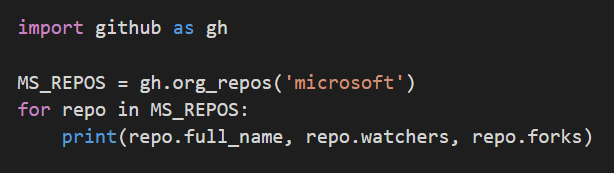
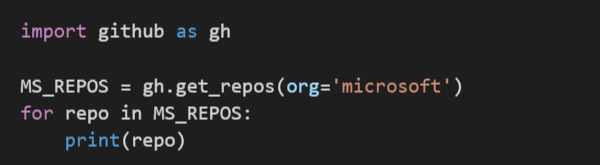
refactor get_repos()

Changed region(s): [[0.03, 0.4242, 0.99, 0.9091], [0.03, 0.0909, 0.39, 0.2727]]

diff --git a/github.py b/github.py
@@ -1,8 +1,8 @@
 """GitHub helper functions.
 
 basic_auth() -> Credentials for basic authentication.
+get_repos() --> Get all public repos for an organization or user.
 link_url() ---> Extract link URL from HTTP header returned by GitHub API.
-org_repos() --> Get all repos for an organization.
 """
 import collections
 import json
@@ -17,6 +17,34 @@ def basic_auth():
     in environment variables GitHubUser and GitHubPAT.
     """
     return (os.getenv('GitHubUser'), os.getenv('GitHubPAT'))
+
+#-------------------------------------------------------------------------------
+def get_repos(org=None, user=None):
+    """Get all public repos for an organization or user.
+
+    org = organization
+    user = username (ignored if an organization is provided)
+
+    Returns a list of namedtuple objects, one per repo.
+    """
+    FIELDS = ['full_name', 'watchers', 'forks', 'open_issues', 'default_branch']
+    if org:
+        URL = 'https://api.github.com/orgs/' + org + '/repos'
+    else:
+        URL = 'https://api.github.com/users/' + user + '/repos'
+
+    repolist = [] # the list that will be returned
+    Repo = collections.namedtuple('Repo', ' '.join(FIELDS)) # namedtuple factory
+
+    response = requests.get(URL, auth=basic_auth())
+    if response.ok:
+        thispage = json.loads(response.text)
+        for repo_json in thispage:
+            repo_nt = Repo(repo_json['full_name'], repo_json['watchers'],
+                           repo_json['forks'], repo_json['open_issues'],
+                           repo_json['default_branch'])
+            repolist.append(repo_nt)
+    return repolist
 
 #------------------------------------------------------------------------------
 def link_url(link_header, linktype='next'):
@@ -38,28 +66,6 @@ def link_url(link_header, linktype='next'):
             retval = link.split(';')[0].strip()[1:-1]
     return retval
 
-#-------------------------------------------------------------------------------
-def org_repos(org='microsoft'):
-    """Get all repos for an organization.
-
-    org = organization Name
-    Returns a list of namedtuple objects, one per repo.
-    """
-    FIELDS = ['full_name', 'watchers', 'forks', 'open_issues', 'default_branch']
-    URL = 'https://api.github.com/orgs/' + org + '/repos'
-    repolist = [] # the list that will be returned
-    Repo = collections.namedtuple('Repo', ' '.join(FIELDS))
-
-    response = requests.get(URL, auth=basic_auth())
-    if response.ok:
-        thispage = json.loads(response.text)
-        for repo_json in thispage:
-            repo_nt = Repo(repo_json['full_name'], repo_json['watchers'],
-                           repo_json['forks'], repo_json['open_issues'],
-                           repo_json['default_branch'])
-            repolist.append(repo_nt)
-    return repolist
-
 # if running standalone, run a few simple tests --------------------------------
 if __name__ == "__main__":
 
@@ -67,13 +73,15 @@ if __name__ == "__main__":
     print(basic_auth())
 
     print('-'*40 + '\n' + 'link_url() test' + '\n' + '-'*40)
-    TESTLINKS = "<https://api.github.com/organizations/6154722/repos?page=2>; rel=\"next\", <https://api.github.com/organizations/6154722/repos?page=18>; rel=\"last\""
+    TESTLINKS = "<https://api.github.com/organizations/6154722/" + \
+        "repos?page=2>; rel=\"next\", <https://api.github.com/" + \
+        "organizations/6154722/repos?page=18>; rel=\"last\""
     for reltype in ['first', 'prev', 'next', 'last']:
         URL = link_url(TESTLINKS, reltype)
         print(reltype, URL)
 
-    print('-'*40 + '\n' + 'org_repos() test' + '\n' + '-'*40)
-    ms_repos = org_repos('microsoft')
+    print('-'*40 + '\n' + 'get_repos() test' + '\n' + '-'*40)
+    ms_repos = get_repos(user='octocat')
     for repo in ms_repos:
         print(repo)
     print('Total repos: ', len(ms_repos))
